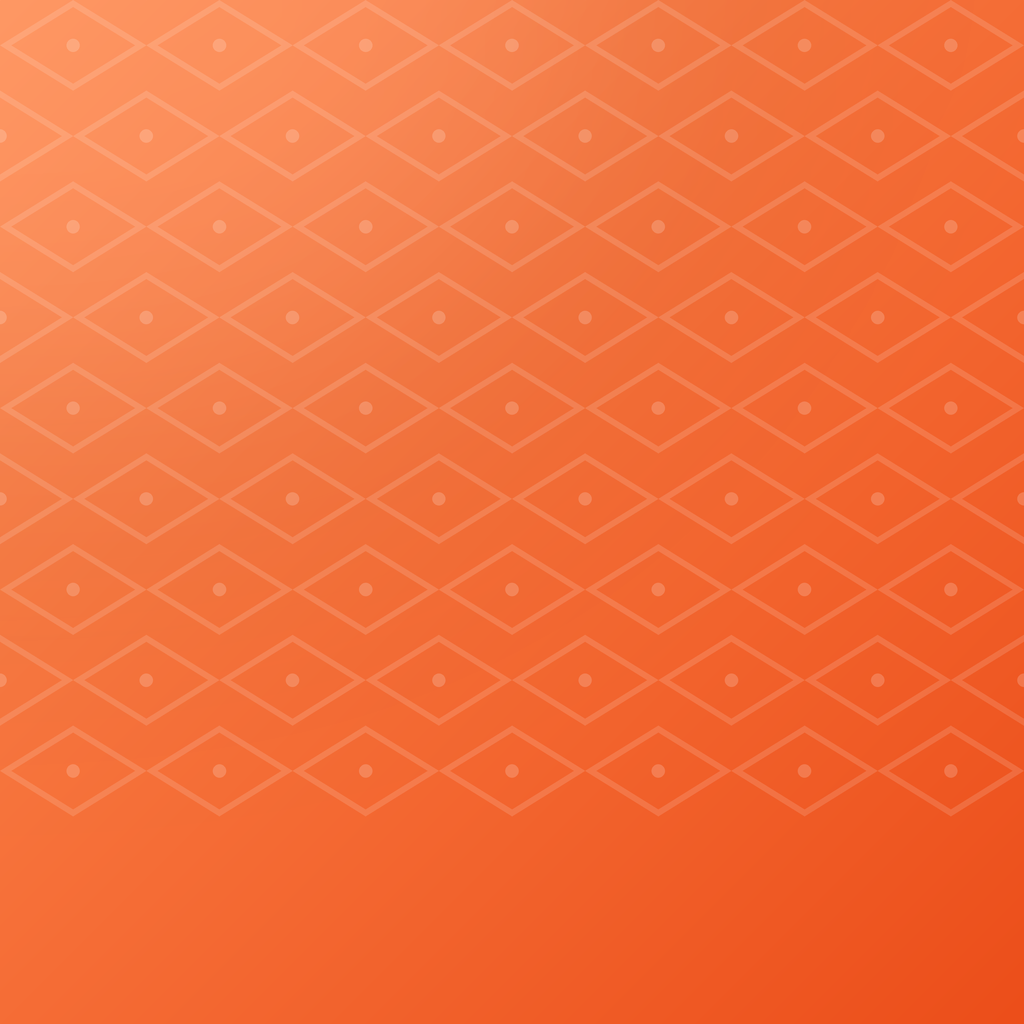
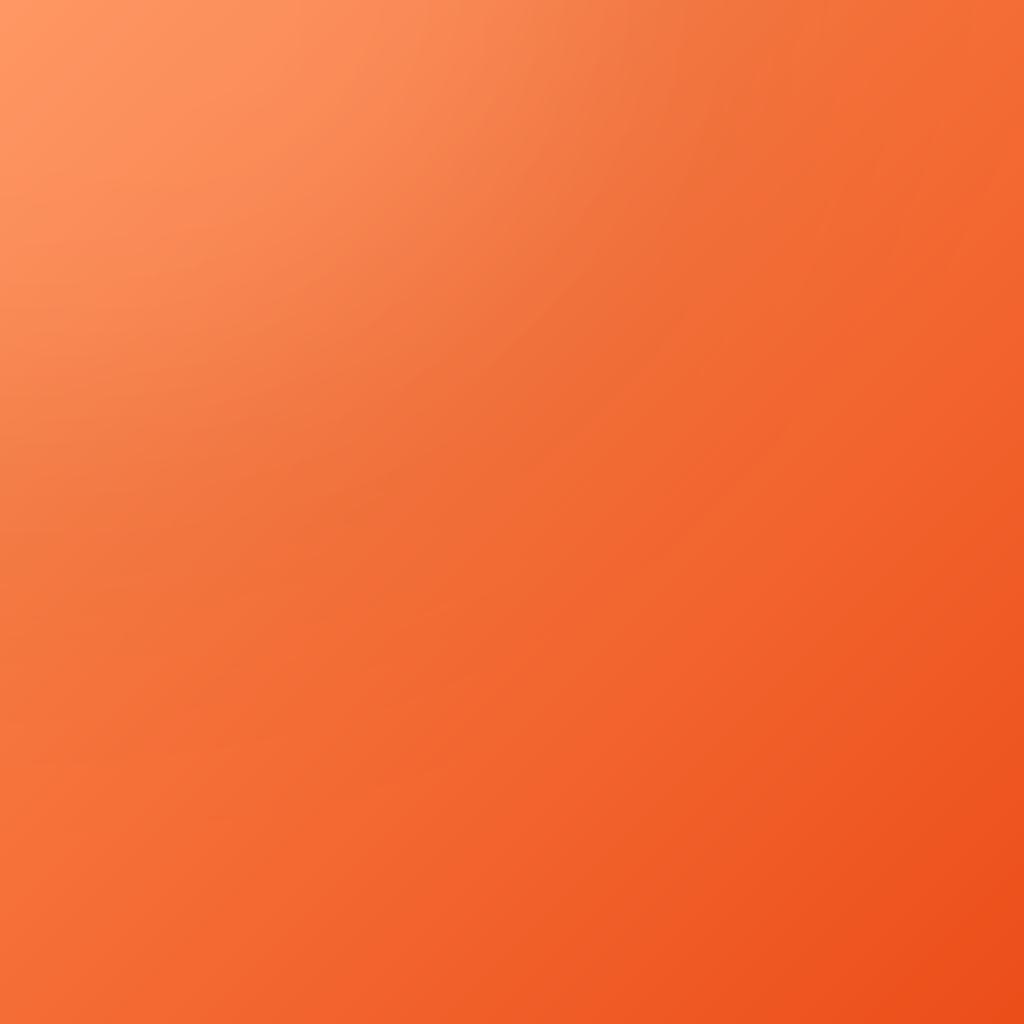
mobile: icone sobre aux couleurs ivoiriennes (sans motif de pagne)

diff --git a/mobile/outils/generer_icones.py b/mobile/outils/generer_icones.py
@@ -1,8 +1,6 @@
 """Genere les icones de l'app LinkCI : un L geometrique relie a un noeud (l'idee de "lien").
 
-Touche ivoirienne : les trois couleurs du pays (fond orange, L blanc, coeur du noeud
-vert) et un motif textile en filigrane (losanges et points des pagnes baoule /
-toiles de Korhogo).
+Touche ivoirienne : les trois couleurs du pays (fond orange, L blanc, coeur du noeud vert).
 
 Usage (depuis le dossier mobile) : python outils/generer_icones.py
 Necessite Pillow (pip install pillow).
@@ -33,24 +31,6 @@ def fond(taille):
     reflet = Image.new('RGBA', (taille, taille), (0, 0, 0, 0))
     ImageDraw.Draw(reflet).ellipse([-taille * 0.5, -taille * 0.6, taille * 0.7, taille * 0.5], fill=(255, 255, 255, 26))
     img.alpha_composite(reflet.filter(ImageFilter.GaussianBlur(taille * 0.16)))
-    return img
-
-
-def motif_textile(taille, opacite=34):
-    """Losanges en treillis + points, facon pagne baoule / toile de Korhogo, tres discret."""
-    img = Image.new('RGBA', (taille, taille), (0, 0, 0, 0))
-    d = ImageDraw.Draw(img)
-    pas = taille / 7
-    trait = max(1, int(taille * 0.006))
-    couleur = (255, 255, 255, opacite)
-    n = 9
-    for i in range(-1, n):
-        for j in range(-1, n):
-            cx, cy = (i + 0.5) * pas + (pas / 2 if j % 2 else 0), (j + 0.5) * pas * 0.62
-            h, l = pas * 0.31, pas * 0.5
-            d.polygon([(cx, cy - h), (cx + l, cy), (cx, cy + h), (cx - l, cy)], outline=couleur, width=trait)
-            r = pas * 0.045
-            d.ellipse([cx - r, cy - r, cx + r, cy + r], fill=(255, 255, 255, int(opacite * 1.4)))
     return img
 
 
@@ -106,16 +86,13 @@ if __name__ == '__main__':
 
     # Icone classique : fond plein (Android et iOS arrondissent eux-memes)
     icone = fond(T)
-    icone.alpha_composite(motif_textile(T))
     icone.alpha_composite(logo(T, 0.62))
     enregistrer(icone, 'icon.png', 1024)
 
     # Icone adaptative Android : logo seul, dans la zone jamais rognee (66 % central),
-    # sur un arriere-plan degrade + motif (qu'Android decoupe selon la forme du telephone)
+    # sur un arriere-plan degrade (qu'Android decoupe selon la forme du telephone)
     enregistrer(logo(T, 0.56), 'adaptive-icon.png', 1024)
-    arriere = fond(T)
-    arriere.alpha_composite(motif_textile(T))
-    enregistrer(arriere, 'adaptive-background.png', 1024)
+    enregistrer(fond(T), 'adaptive-background.png', 1024)
 
     # Ecran de demarrage : logo blanc (fond orange defini dans app.json)
     enregistrer(logo(T, 0.70, ombre=False), 'splash-icon.png', 1024)
